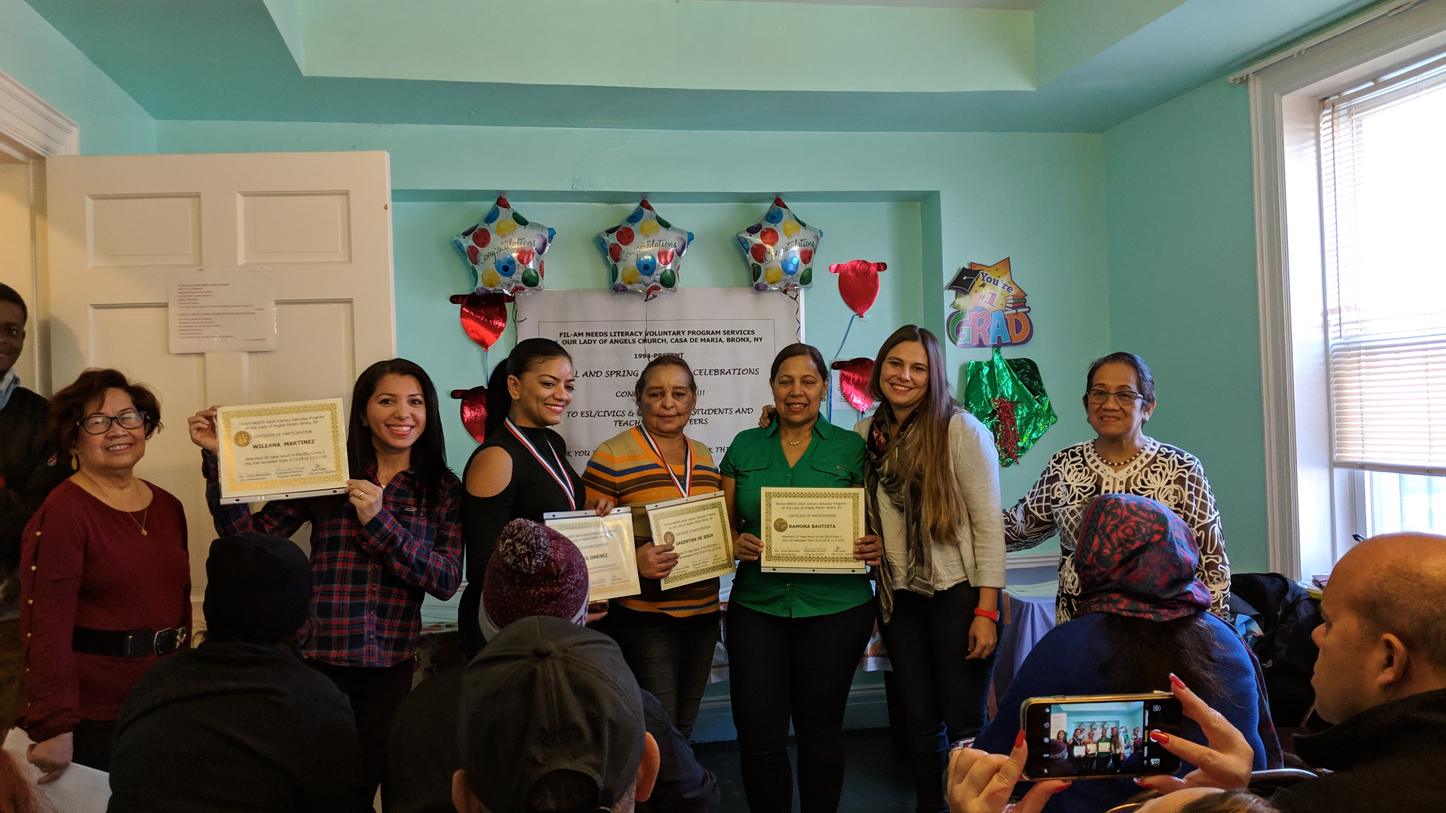
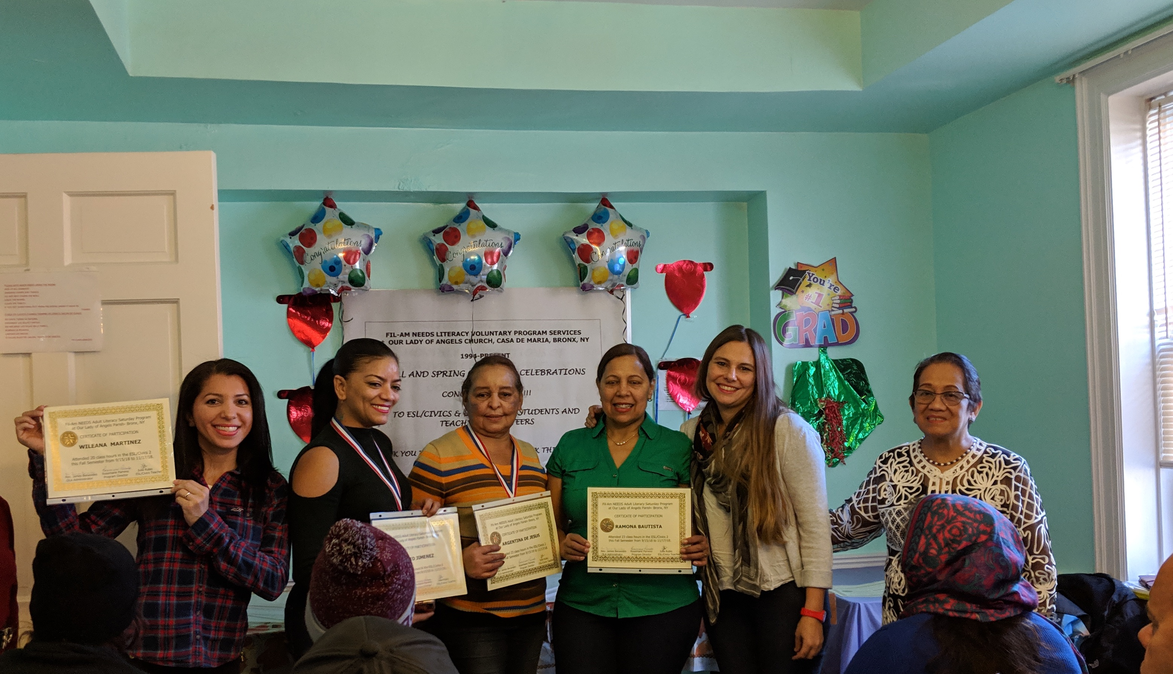
Adding original images and adapting grid layout for experience section.

diff --git a/index.html b/index.html
@@ -166,7 +166,7 @@
         </div>
       </div>
       <div class="row">
-        <div class="col-md-4 col-sm-6 portfolio-item">
+        <div class="col-sm-6 portfolio-item">
           <a href="img/ivelisse1.jpg" class="portfolio-link" target="_blank" rel="noopener noreferrer">
             <div class="portfolio-hover">
               <div class="portfolio-hover-content">
@@ -183,14 +183,14 @@
             <p>In the picture, I am interviewing Ivelisse Prats Ramirez, the first woman in Latin America who was elected president of a political party. </p>
           </div>
         </div>
-        <div class="col-md-4 col-sm-6 portfolio-item">
-          <a href="datetimeutc/" class="portfolio-link">
+        <div class="col-sm-6 portfolio-item">
+          <a href="img/columbia.jpg" class="portfolio-link" target="_blank" rel="noopener noreferrer">
             <div class="portfolio-hover">
               <div class="portfolio-hover-content">
                 <i class="fa fa-external-link fa-3x"></i>
               </div>
             </div>
-            <img src="img/datetimeutc.jpg" class="img-responsive" alt="">
+            <img src="img/columbia.jpg" class="img-responsive" alt="Columbia University">
           </a>
           <div class="portfolio-caption">
             <h3>Teaching</h3>
@@ -198,14 +198,16 @@
             <p>I was a Professor of Research Seminar and Comparative Politics in the Universidad Católica Argentina from 2010 to 2015.</p>
           </div>
         </div>
-        <div class="col-md-4 col-sm-6 portfolio-item">
-          <a href="#portfolio-decisive" class="portfolio-link" data-toggle="modal">
+      </div>
+      <div class="row">
+        <div class="col-sm-6 portfolio-item">
+          <a href="img/villa31.jpg" class="portfolio-link" target="_blank" rel="noopener noreferrer">
             <div class="portfolio-hover">
               <div class="portfolio-hover-content">
-                <i class="fa fa-plus fa-3x"></i>
+                <i class="fa fa-external-link fa-3x"></i>
               </div>
             </div>
-            <img src="img/decisive.jpg" class="img-responsive" alt="">
+            <img src="img/villa31.jpg" class="img-responsive" alt="Mural in Villa 31">
           </a>
           <div class="portfolio-caption">
             <h3>Consultancy and government</h3>
@@ -213,14 +215,14 @@
             <p>I have also worked as an external/independent consultant for government, foundations and international organizations.</p>
           </div>
         </div>
-        <div class="col-md-4 col-sm-6 portfolio-item">
-          <a href="#portfolio-soshio" class="portfolio-link" data-toggle="modal">
+        <div class="col-sm-6 portfolio-item">
+          <a href="img/bronx.jpg" class="portfolio-link" target="_blank" rel="noopener noreferrer">
             <div class="portfolio-hover">
               <div class="portfolio-hover-content">
-                <i class="fa fa-plus fa-3x"></i>
+                <i class="fa fa-external-link fa-3x"></i>
               </div>
             </div>
-            <img src="img/soshio.jpg" class="img-responsive" alt="">
+            <img src="img/bronx.jpg" class="img-responsive" alt="Graduation at the Bronx">
           </a>
           <div class="portfolio-caption">
             <h3>Volunteering and academic service</h3>
@@ -340,7 +342,7 @@
     <div class="container">
       <div class="row">
         <div class="col-md-12">
-          <span class="copyright">Made by <a href="https://github.com/lucas-mancini" class="page-scroll" target="_blank">Lucas Mancini</a>, based on a template provided by <a href="https://github.com/whosken" class="page-scroll" target="_blank">Ken Hu</a>.
+          <span class="copyright">Made by <a href="https://github.com/lucas-mancini" class="page-scroll" target="_blank">Lucas Mancini</a>, based on a template by <a href="https://github.com/whosken" class="page-scroll" target="_blank">Ken Hu</a>.
           <div class="copyright">Copyright © <span id='currentYear'></span>. All Rights Reserved</span></div>
         </div>
       </div>

diff --git a/404.html b/404.html
@@ -105,7 +105,7 @@
     <div class="container">
       <div class="row">
         <div class="col-md-12">
-          <span class="copyright">Made by <a href="https://github.com/lucas-mancini" class="page-scroll" target="_blank">Lucas Mancini</a>, based on a template provided by <a href="https://github.com/whosken" class="page-scroll" target="_blank">Ken Hu</a>.
+          <span class="copyright">Made by <a href="https://github.com/lucas-mancini" class="page-scroll" target="_blank">Lucas Mancini</a>, based on a template by <a href="https://github.com/whosken" class="page-scroll" target="_blank">Ken Hu</a>.
           <div>Copyright © <span id='currentYear'></span>. All Rights Reserved</span></div>
         </div>
       </div>
